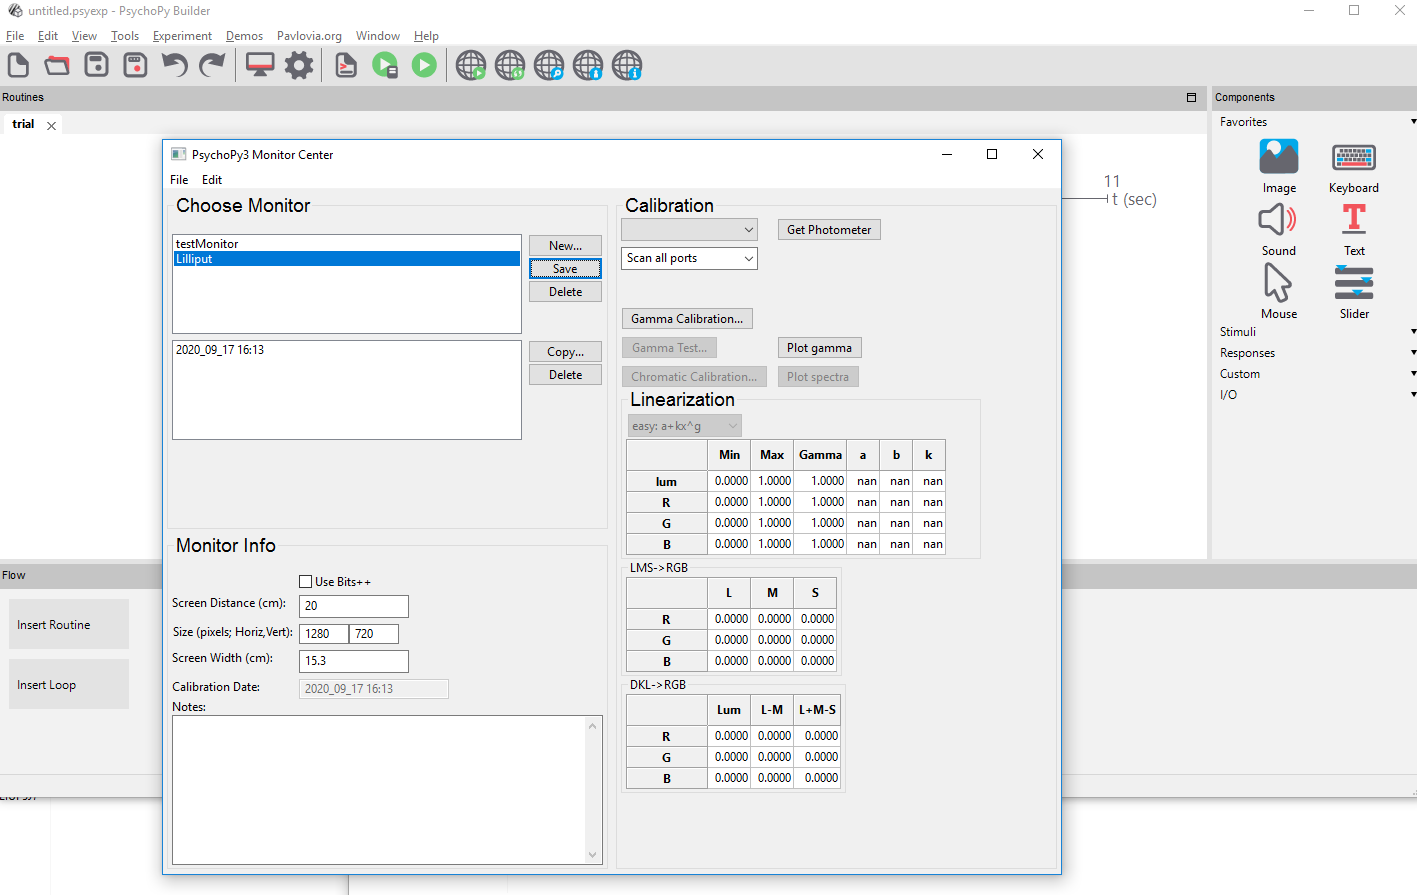
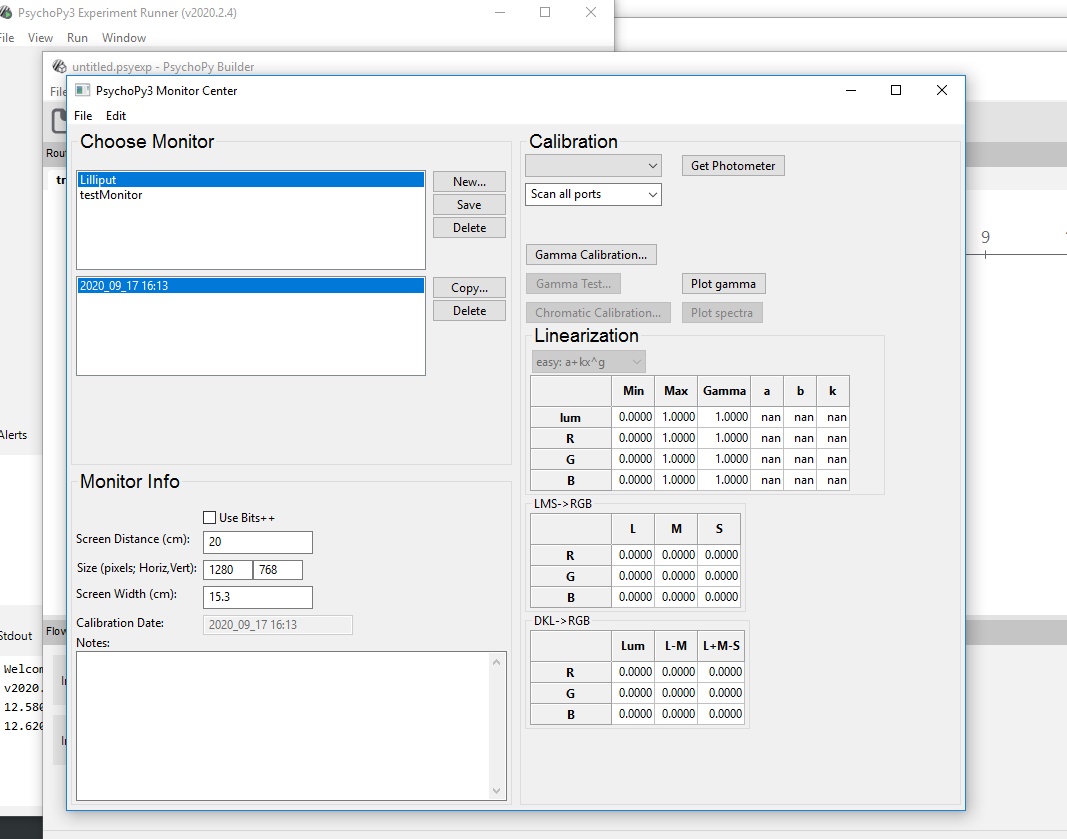
updated with screen measurements and gamma calib

Changed region(s): [[0.0, 0.0, 1.0, 1.0], [0.9278, 0.0, 1.0, 0.031]]

diff --git a/visual_stim/default_params.py b/visual_stim/default_params.py
@@ -49,7 +49,7 @@ STIMULI = {
         # range
         'angle-1':0, 'angle-2':150., 'N-angle':0,
         'spatial-freq-1':0.5, 'spatial-freq-2':2., 'N-spatial-freq':2,
-        'radius-1':2, 'radius-2':8., 'N-radius':0,
+        'radius-1':2, 'radius-2':15., 'N-radius':0,
         'x-center-1':-5., 'x-center-2':5., 'N-x-center':0,
         'y-center-1':-4., 'y-center-2':4., 'N-y-center':0,
         'contrast-1':0.2, 'contrast-2':1., 'N-contrast':0,
@@ -64,7 +64,7 @@ STIMULI = {
         # range
         'angle-1':0, 'angle-2':150., 'N-angle':0,
         'spatial-freq-1':0.5, 'spatial-freq-2':2., 'N-spatial-freq':2,
-        'radius-1':2, 'radius-2':8., 'N-radius':0,
+        'radius-1':2, 'radius-2':15., 'N-radius':0,
         'x-center-1':-5., 'x-center-2':5., 'N-x-center':0,
         'y-center-1':-4., 'y-center-2':4., 'N-y-center':0,
         'contrast-1':0.2, 'contrast-2':1., 'N-contrast':0,
@@ -110,7 +110,7 @@ STIMULI = {
         'angle-1':0, 'angle-2':150., 'N-angle':0,
         'spatial-freq-1':0.5, 'spatial-freq-2':2., 'N-spatial-freq':2,
         'speed-1':0.1, 'speed-2':50, 'N-speed':5,
-        'radius-1':2, 'radius-2':8., 'N-radius':0,
+        'radius-1':2, 'radius-2':15., 'N-radius':0,
         'x-center-1':-5., 'x-center-2':5., 'N-x-center':0,
         'y-center-1':-4., 'y-center-2':4., 'N-y-center':0,
         'contrast-1':0.2, 'contrast-2':1., 'N-contrast':0,
@@ -126,7 +126,7 @@ STIMULI = {
         # range
         'angle-1':0, 'angle-2':150., 'N-angle':0,
         'spatial-freq-1':0.5, 'spatial-freq-2':2., 'N-spatial-freq':2,
-        'radius-1':2, 'radius-2':8., 'N-radius':0,
+        'radius-1':2, 'radius-2':15., 'N-radius':0,
         'speed-1':0.1, 'speed-2':50, 'N-speed':5,
         'x-center-1':-5., 'x-center-2':5., 'N-x-center':0,
         'y-center-1':-4., 'y-center-2':4., 'N-y-center':0,

diff --git a/visual_stim/psychopy_code/stimuli.py b/visual_stim/psychopy_code/stimuli.py
@@ -58,6 +58,7 @@ def stop_signal(parent):
 class visual_stim:
 
     def __init__(self, protocol,
+                 screen_size = [1280, 768],
                  monitoring_square = {'size':5.5,
                                       'x':17,
                                       'y':-10,
@@ -75,11 +76,11 @@ class visual_stim:
         
         if self.protocol['Setup']=='demo-mode':
             self.monitor = monitors.Monitor('testMonitor')
-            self.win = visual.Window([800, int(800*9/16)], monitor=self.monitor,
+            self.win = visual.Window(screen_size, monitor=self.monitor,
                                      units='deg', color=-1) #create a window
         else:
             self.monitor = monitors.Monitor('Lilliput')
-            self.win = visual.Window(size=[1280, 960], monitor=self.monitor,
+            self.win = visual.Window(screen_size, monitor=self.monitor,
                                      screen=1, fullscr=True, units='deg', color=-1)
             
         # blank screens
@@ -106,9 +107,9 @@ class visual_stim:
 
     # Gamma correction 
     def gamma_corrected_lum(self, level):
-        return 2*np.pow(((level+1.)/2./self.k), 1./self.gamma)-1.
+        return 2*np.power(((level+1.)/2./self.k), 1./self.gamma)-1.
     def gamma_corrected_contrast(self, contrast):
-        return np.pow(contrast/self.k, 1./self.gamma)
+        return np.power(contrast/self.k, 1./self.gamma)
     
     # initialize all quantities
     def init_experiment(self, protocol, keys):

diff --git a/visual_stim/README.md b/visual_stim/README.md
@@ -27,6 +27,8 @@ There is a `"demo"` mode to adjust and build the protocols.
 
 ## Screen settings
 
+Measurements of our screen (Lilliput LCD 869-GL 7'') yielded: `width=15.3cm` and `height=9.1cm` (so it isn't 16:9 as advertised). The only compatible resolution on Windows is `1280x768`.
+
 ### 1) Windows level
 
 We need to set the following settings:
